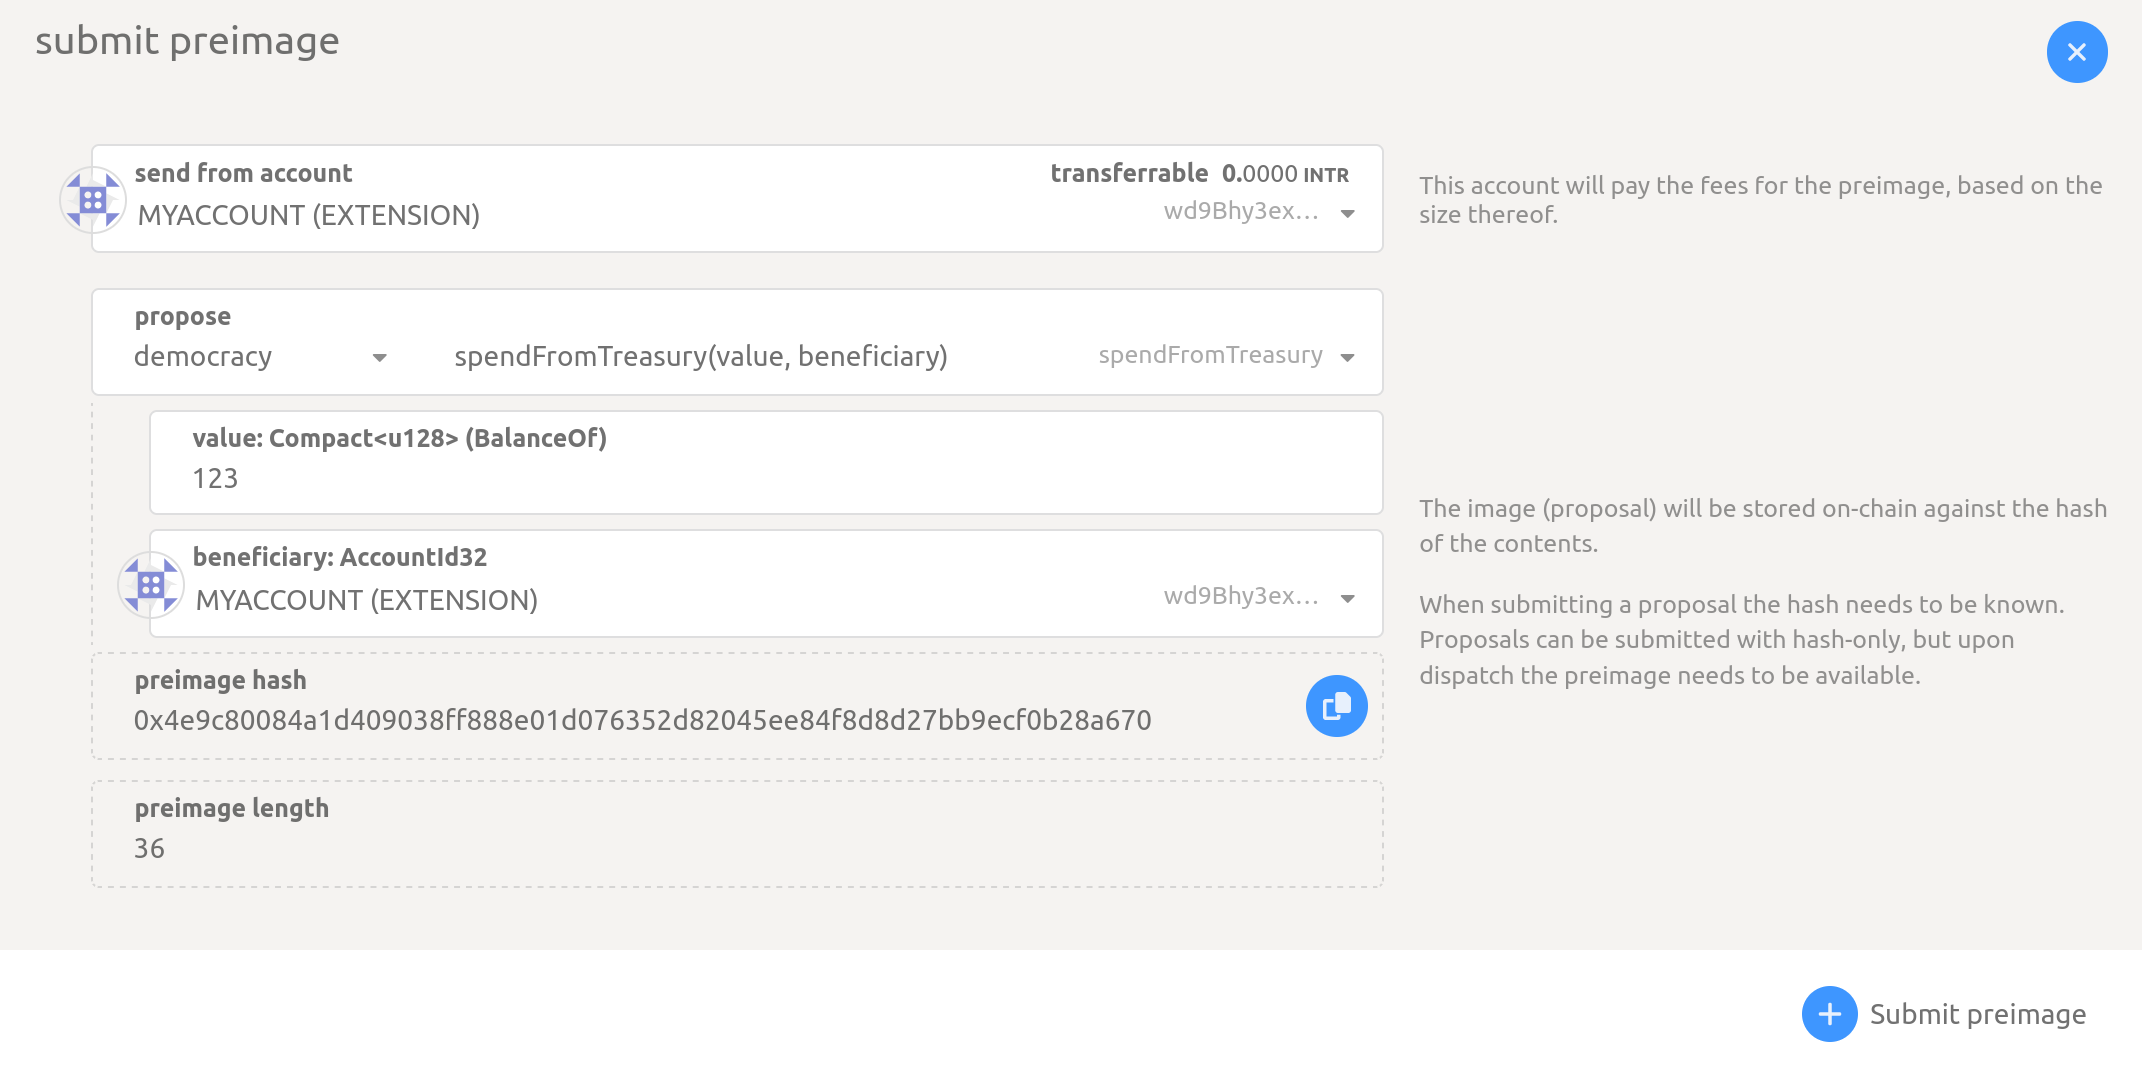
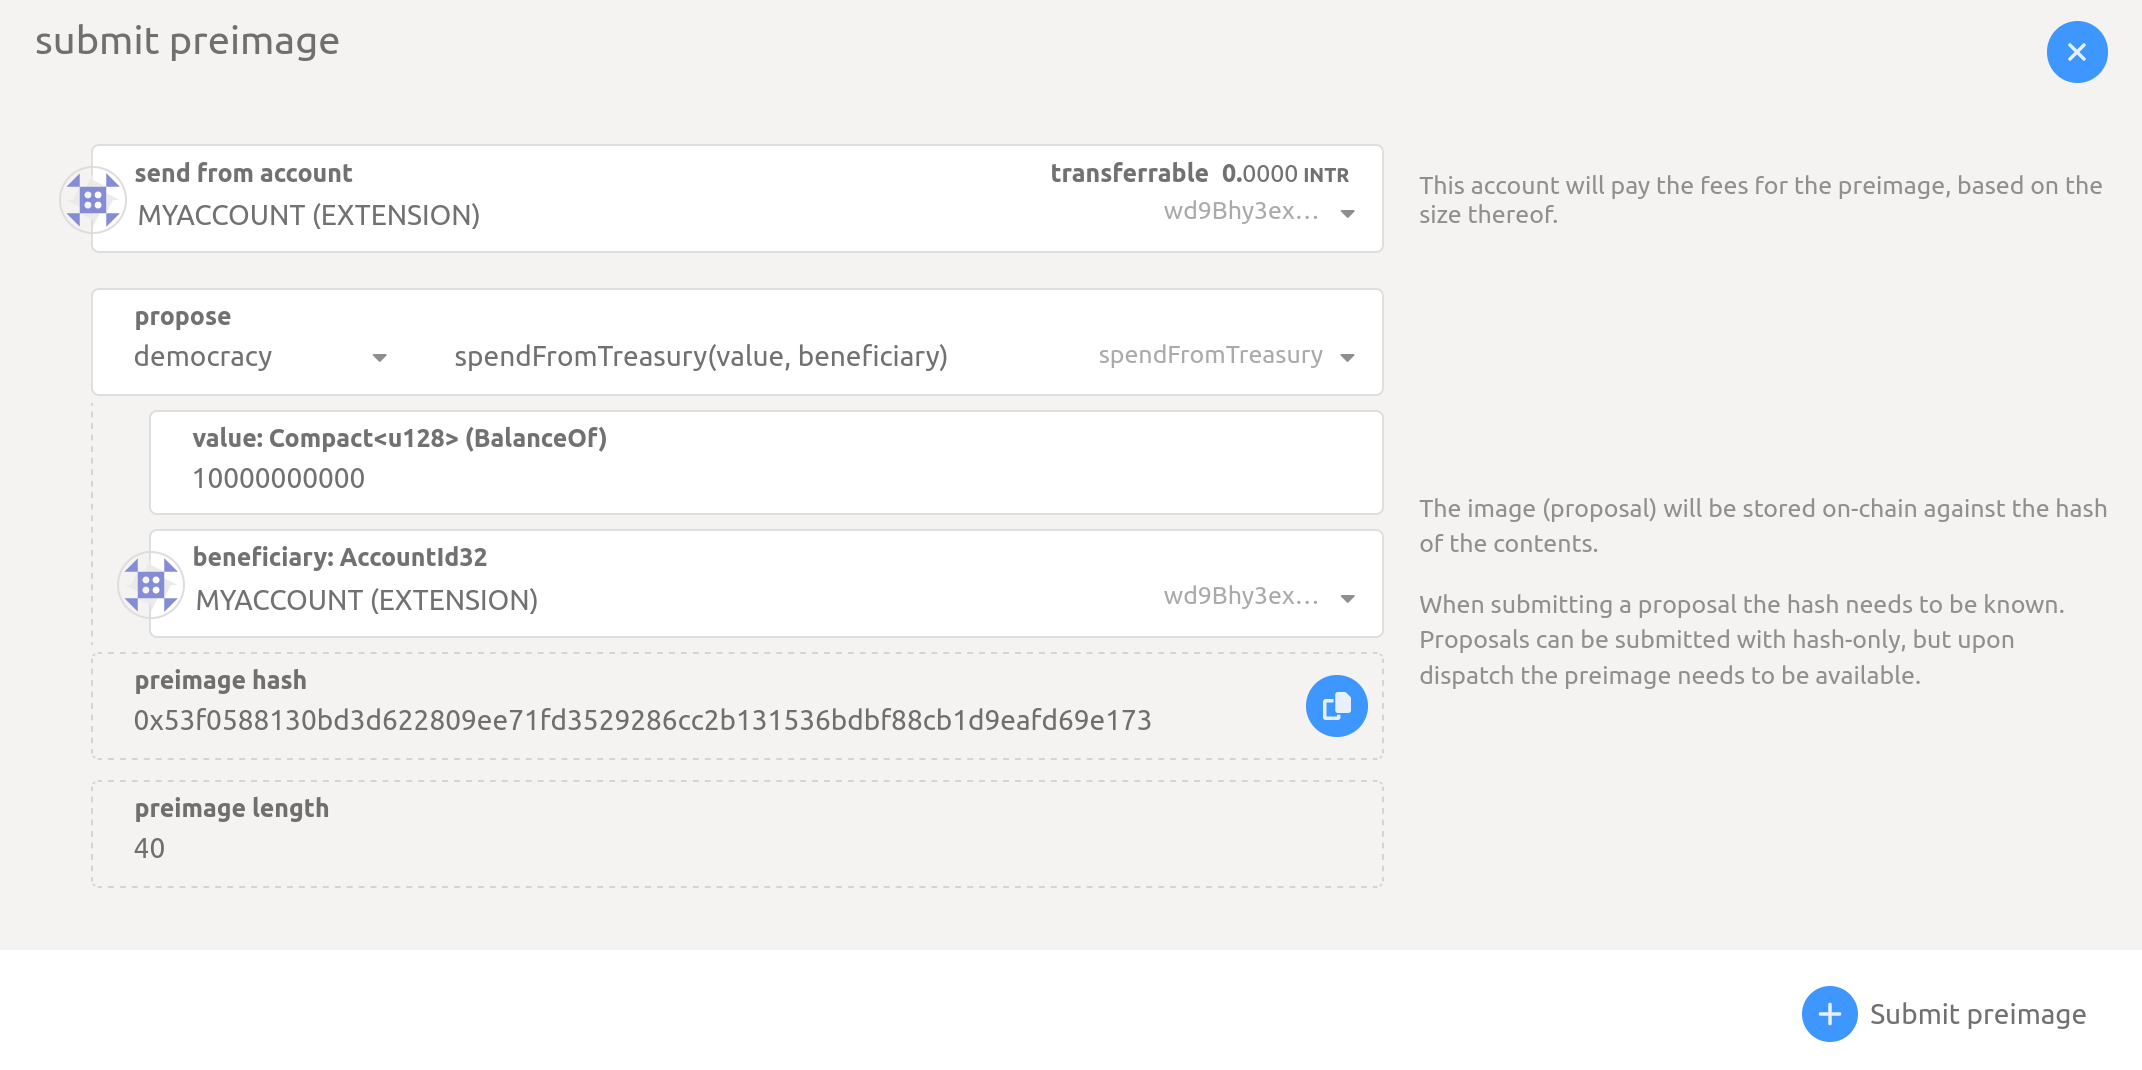
fix: update treasury proposal guide

Changed region(s): [[0.0616, 0.6477, 0.5238, 0.6785], [0.0924, 0.4318, 0.1849, 0.4626], [0.0616, 0.771, 0.0924, 0.8019]]

diff --git a/docs/guides/governance.md b/docs/guides/governance.md
@@ -170,7 +170,7 @@ On the side of the proposal, you see a modal that will allow you to second the p
 
 ## Create a Treasury Proposal
 
-Anyone can make a treasury proposal if they have locked enough KINT or INTR. Follow the steps outlined [here](#On-Chain-Proposal) to create a new proposal. The preimage / proposal should be a call to `democracy.spendFromTreasury`. The function takes only two arguments: the amount to transfer, and the account of the beneficiary. An example is shown below:
+Anyone can make a treasury proposal if they have locked enough KINT or INTR. Follow the steps outlined [here](#On-Chain-Proposal) to create a new proposal. The preimage / proposal should be a call to `democracy.spendFromTreasury`. The function takes only two arguments: the amount to transfer, and the account of the beneficiary. The amount is the amount of the native token (i.e. INTR or KINT) to be transferred, and it's entered in planck. INTR uses 10 decimals while KINT uses 12 decimals, So on Interlay to transfer 1 INTR, you enter 10^10, while on Kintsugi to transfer 1 KINT, you enter 10^12.  An example is shown below:
 
 ![Treasury Proposal Example](../_assets/img/guide/treasury-proposal.png)
 
